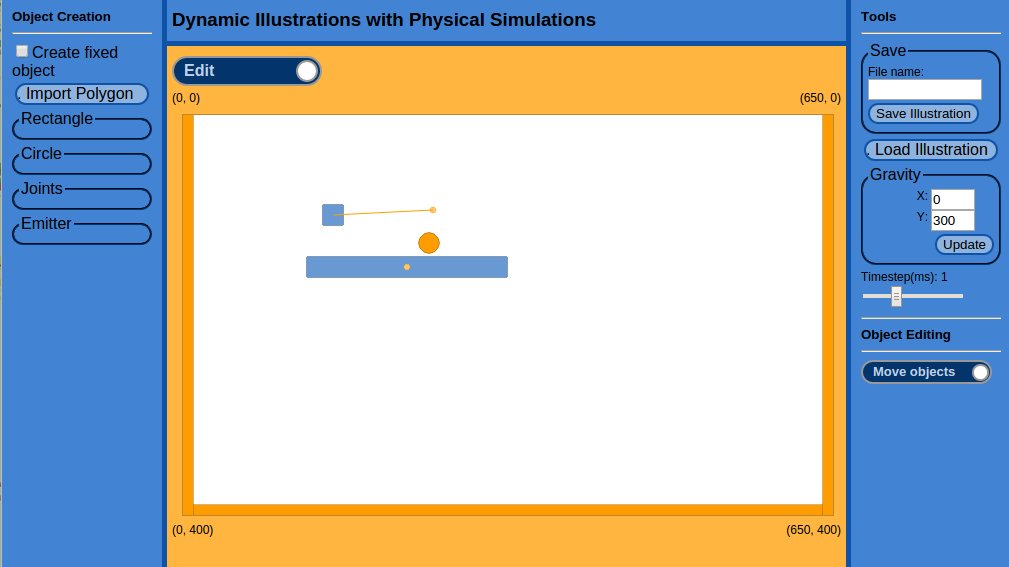
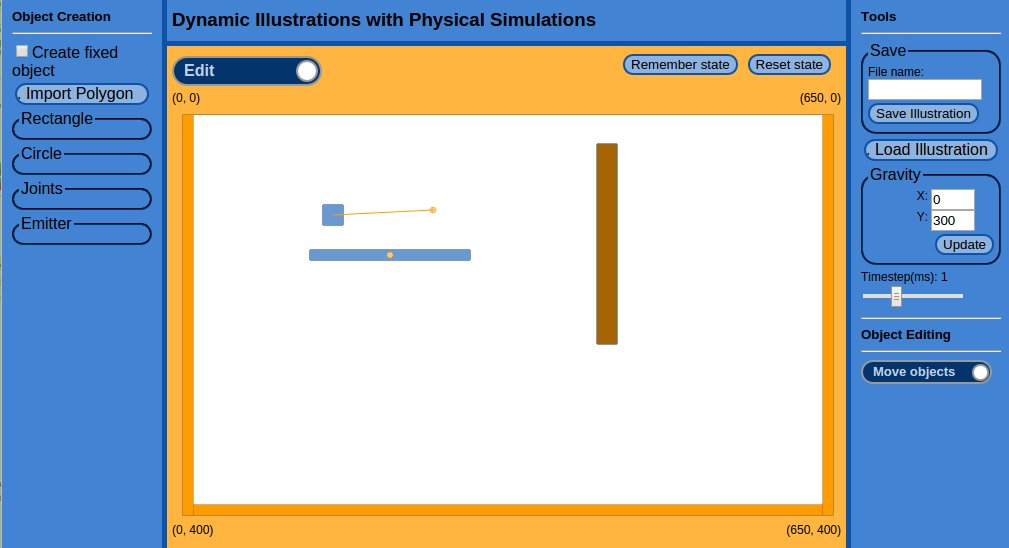
added ability to save temp state and reset to old state

diff --git a/js/main.js b/js/main.js
@@ -28,6 +28,9 @@ document.getElementById( 'moveSelectSwitch' ).addEventListener('click', function
   select_type = select_any;
   if(moveObjects) {
     selected_shape = false;
+    document.getElementById('editJoint').className = 'notSelected';
+    document.getElementById('editObject').className = 'notSelected';
+    document.getElementById('editEmitter').className = 'notSelected';
   } else {
     select_type = select_any;
   }
@@ -255,12 +258,6 @@ function setAnchor1BodyCenter(bodyType) {
   document.getElementById("selectedAnchor1").textContent = str;
 }
 
-function selectAnchor2() {
-  select_type = select_anchor2;
-  document.getElementById("anchor2").className = "button-clicked";
-  selectAny();
-}
-
 function selectAny() {
   document.getElementById("moveSelectSwitch").checked = false;
   selected_shape = false;
@@ -283,16 +280,8 @@ function saveSelectedBody(body) {
 
 function saveSelectedPoint(point) {
   var str = "("+point.x+", "+point.y+")";
-  switch(select_type) {
-    case select_anchor1: {
-      document.getElementById("selectedAnchor1").textContent = str;
-      document.getElementById("anchor1").className = "button";
-    } break;
-    case select_anchor2: {
-      document.getElementById("selectedAnchor2").textContent = str;
-      document.getElementById("anchor2").className = "button";
-    } break;
-  }
+  document.getElementById("selectedAnchor1").textContent = str;
+  document.getElementById("anchor1").className = "button";
   select_type = select_any;
 }
 
@@ -334,7 +323,6 @@ function addJoint() {
   document.getElementById("selectedBody1").textContent = "NaN";
   document.getElementById("selectedBody2").textContent = "NaN";
   document.getElementById("selectedAnchor1").textContent = "NaN";
-  document.getElementById("selectedAnchor2").textContent = "Nan";
 }
 
 function showJointOptions() {

diff --git a/js/loadWorld.js b/js/loadWorld.js
@@ -19,6 +19,8 @@ function loadWorld(worldString) {
     loadJoint(jsonjoint);
   }
 
+  var emitters = new Array();
+  var emitterBodies = {};
   for( var i = 0; i < json['emitterList'].length; i++){
     var jsonemitter = JSON.parse(json['emitterList'][i]);
     loadEmitter(jsonemitter);

diff --git a/js/demos.js b/js/demos.js
@@ -194,6 +194,7 @@ Event.observe(window, 'load', function() {
         selected_joint = GetJointAtMouse();
         if(selected_joint) {
           showJointOptions();
+          selected_shape = false;
           return;
         }
         // otherwise selecting an object for editing
